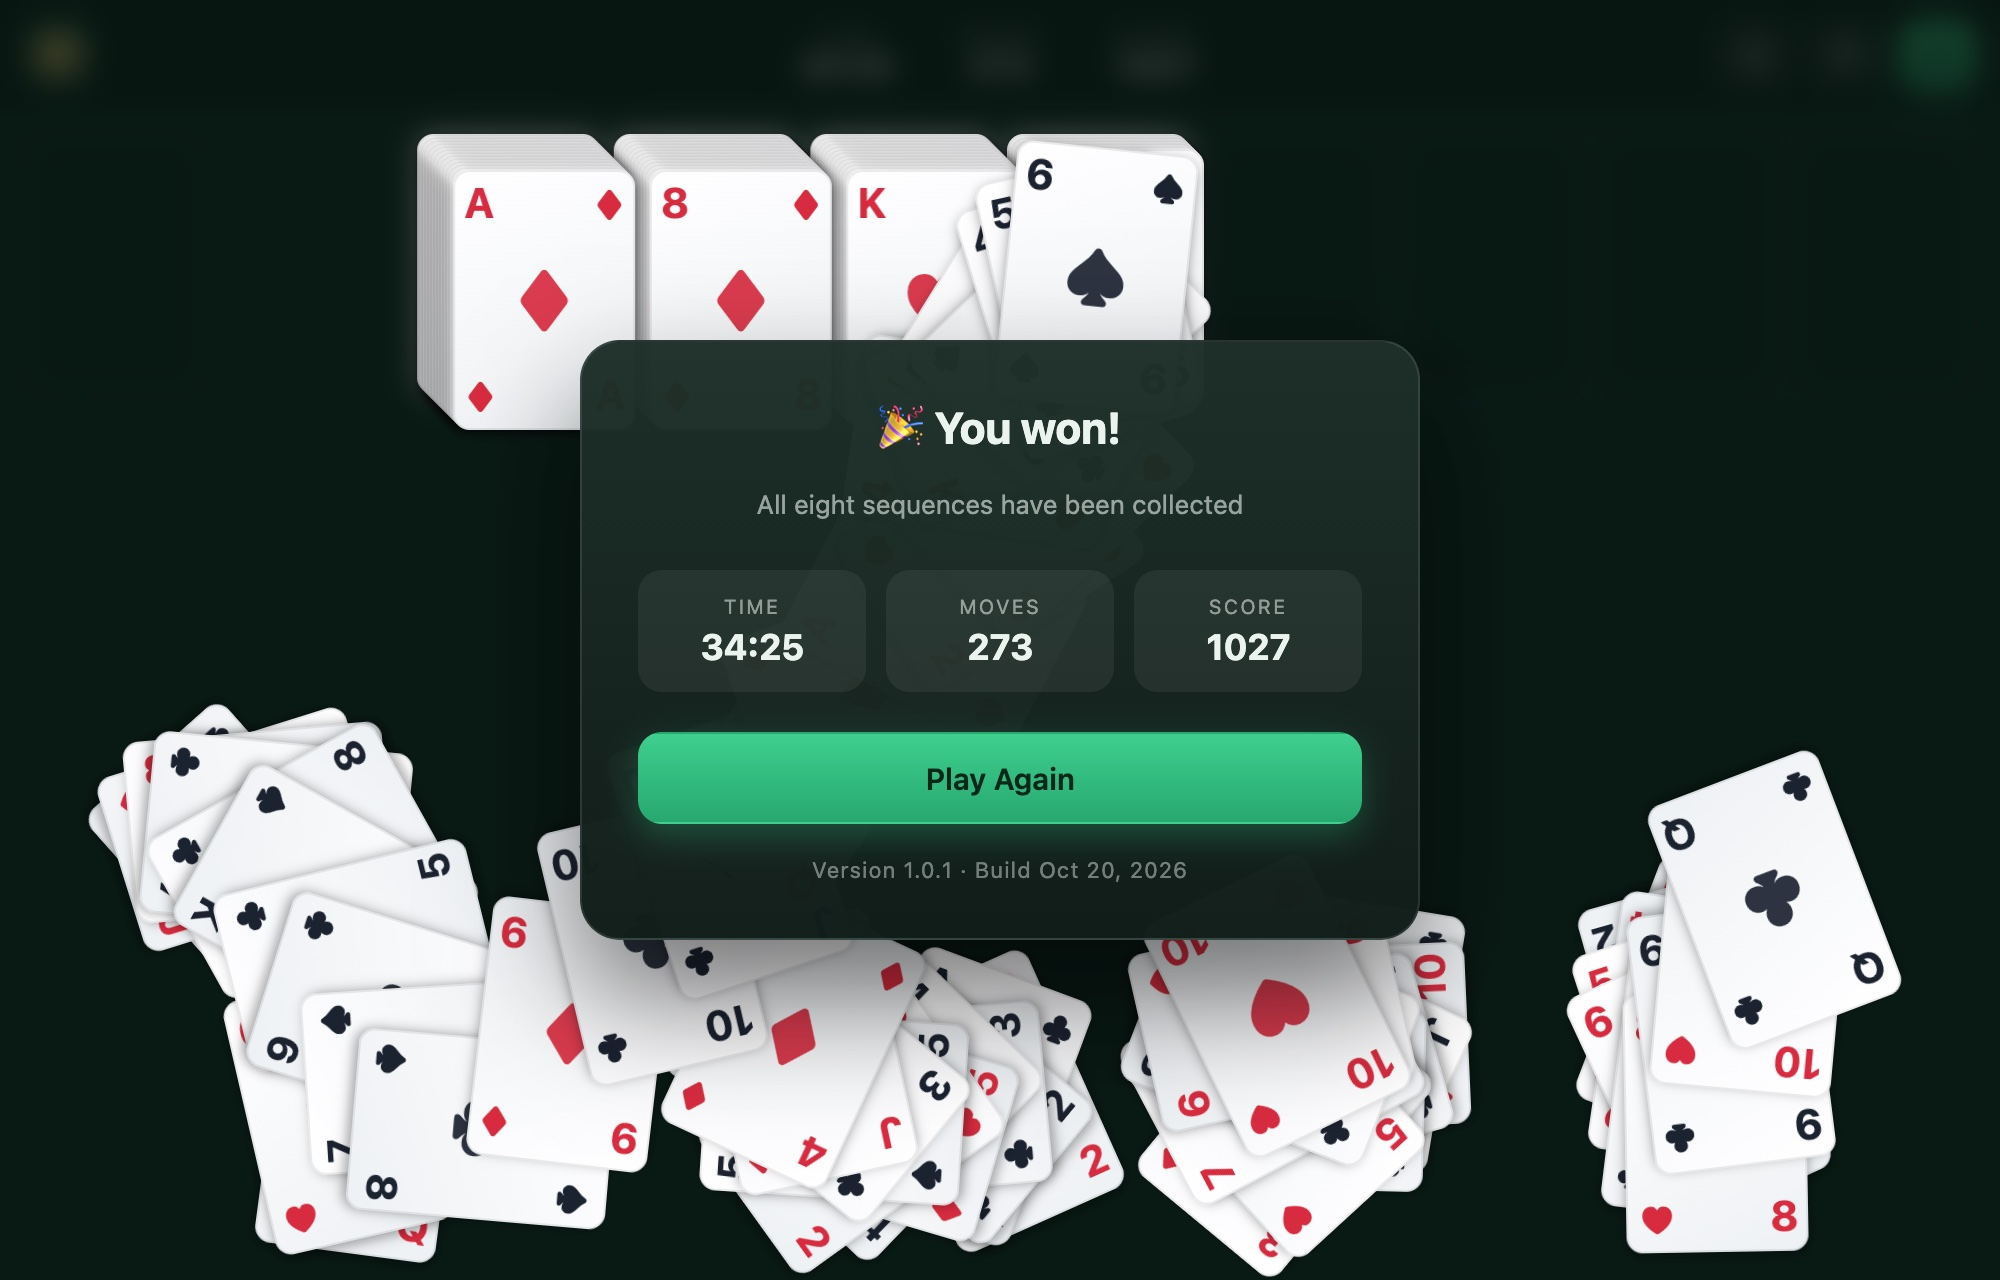
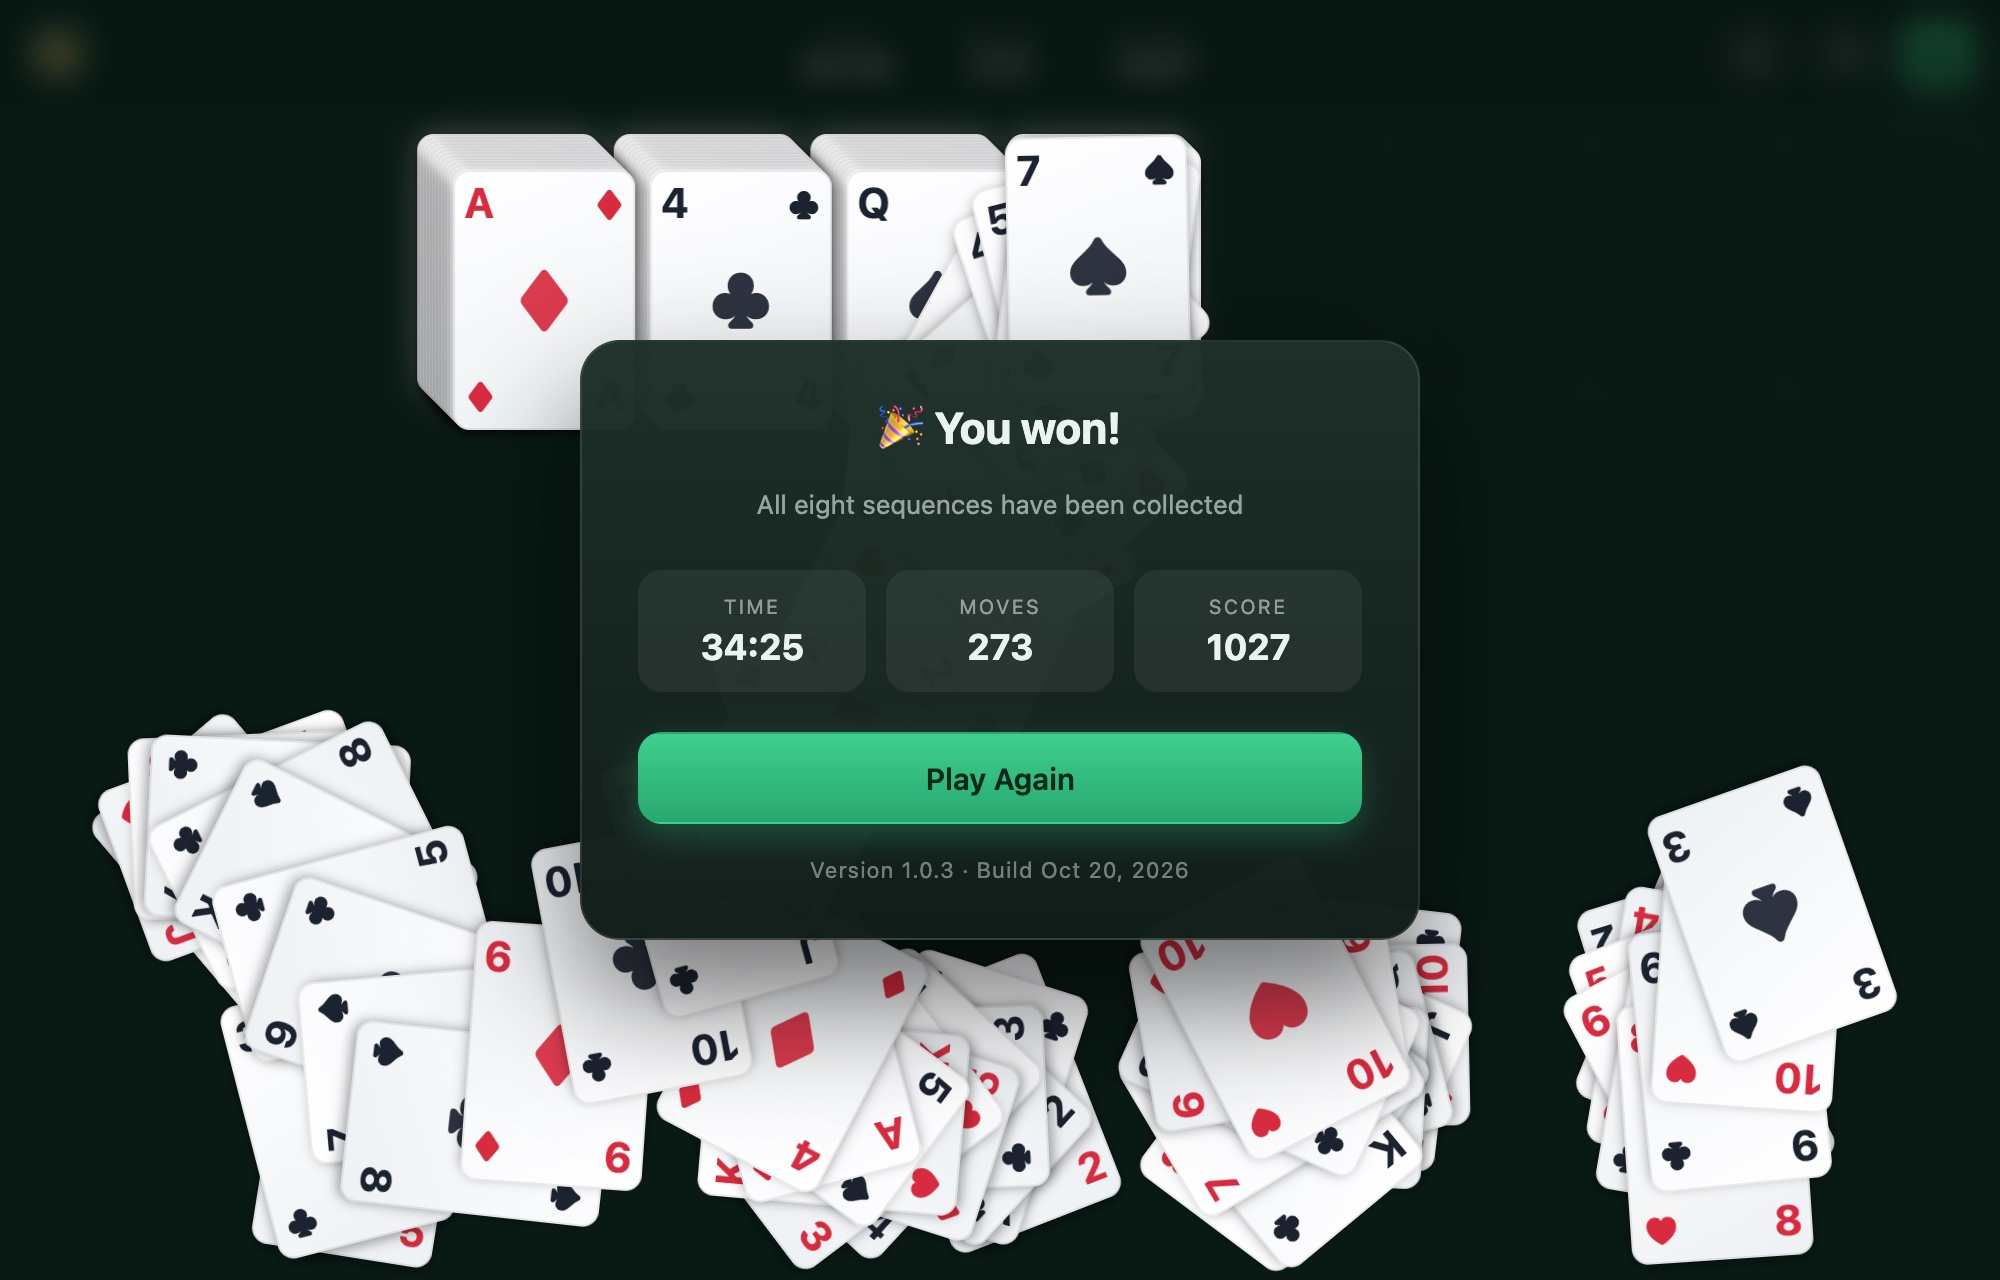
Release 1.0.3: landscape layout fixes, compact dialogs
- measure(): tableau now uses the real available height (tableH floor 40
  instead of 140) and shrinks the cards only when a column would not fit,
  so nothing is clipped in short landscape viewports (915x330: fresh game
  +16 px -> -11 px, 18-card column +29 px -> -11 px); row stays centred
  and the header stays flush with the cards (--gutter)
- Start/info dialogs: overlay is scrollable and the modal is centred when
  it fits; compact layout below 520 px height (smaller logo/paddings,
  difficulty buttons side by side) - the menu was 512 px tall in a 330 px
  viewport, so the difficulty choice and "Start Game" were off-screen
- Version 1.0.3, cache bumped to spider-sunrise-v5
- README screenshots regenerated

diff --git a/script.js b/script.js
@@ -216,35 +216,58 @@
 
     const pad = Math.max(8, Math.min(18, W * 0.012));
     const gap = Math.max(4, W * 0.007);
-    let cardW = (W - pad * 2 - gap * 9) / COLS;
-    cardW = Math.min(cardW, 124);
-    const cardH = cardW * 1.42;
+    let cardW = Math.min((W - pad * 2 - gap * 9) / COLS, 124);
+
+    let cardH = cardW * 1.42;
+    let tableTop = 0;
+    let tableH = 0;
+    let upOff = 0;
+    let downOff = 0;
+
+    for (let pass = 0; pass < 4; pass++) {
+      cardH = cardW * 1.42;
+      tableTop = pad + cardH + Math.max(12, cardH * 0.18, H * 0.035);
+      tableH = Math.max(40, H - tableTop - pad);
+
+      const upMax = cardH * 0.2;
+      const downMax = cardH * 0.09;
+
+      let need = 0;
+      state.columns.forEach((col) => {
+        let t = cardH;
+        for (let i = 0; i < col.length - 1; i++) {
+          t += col[i].faceUp ? upMax : downMax;
+        }
+        need = Math.max(need, t);
+      });
+      const offMax = need - cardH;
+      const offAvail = tableH - cardH;
+      const k = offMax > offAvail && offMax > 0 ? Math.max(0, offAvail / offMax) : 1;
+      upOff = Math.max(2, upMax * k);
+      downOff = Math.max(1.5, downMax * k);
+
+      let actual = 0;
+      state.columns.forEach((col) => {
+        let t = cardH;
+        for (let i = 0; i < col.length - 1; i++) {
+          t += col[i].faceUp ? upOff : downOff;
+        }
+        actual = Math.max(actual, t);
+      });
+      if (actual <= tableH || cardW <= 56) break;
+      cardW = Math.max(56, cardW * Math.min(0.97, tableH / actual));
+    }
+
+    cardH = cardW * 1.42;
+    tableTop = pad + cardH + Math.max(12, cardH * 0.18, H * 0.035);
+    tableH = Math.max(40, H - tableTop - pad);
+
     const tableW = cardW * COLS + gap * (COLS - 1);
     const offsetX = (W - tableW) / 2;
 
     board.style.setProperty("--cw", cardW + "px");
     board.style.setProperty("--ch", cardH + "px");
     document.documentElement.style.setProperty("--gutter", offsetX + "px");
-
-    const tableTop = pad + cardH + Math.max(12, cardH * 0.18, H * 0.035);
-    const tableH = Math.max(140, H - tableTop - pad);
-
-    const upMax = cardH * 0.2;
-    const downMax = cardH * 0.09;
-
-    let need = 0;
-    state.columns.forEach((col) => {
-      let t = cardH;
-      for (let i = 0; i < col.length - 1; i++) {
-        t += col[i].faceUp ? upMax : downMax;
-      }
-      need = Math.max(need, t);
-    });
-    const offMax = need - cardH;
-    const offAvail = tableH - cardH;
-    const k = offMax > offAvail && offMax > 0 ? Math.max(0, offAvail / offMax) : 1;
-    const upOff = Math.max(2, upMax * k);
-    const downOff = Math.max(1.5, downMax * k);
 
     const foundX0 = offsetX + 2 * (cardW + gap);
 

diff --git a/style.css b/style.css
@@ -413,8 +413,10 @@ body.menu-open #board {
   position: fixed;
   inset: 0;
   display: none;
-  align-items: center;
+  align-items: flex-start;
   justify-content: center;
+  overflow-y: auto;
+  overscroll-behavior: contain;
   background: rgba(6, 16, 13, 0.72);
   backdrop-filter: blur(7px);
   -webkit-backdrop-filter: blur(7px);
@@ -428,6 +430,7 @@ body.menu-open #board {
 
 .modal {
   width: min(420px, 100%);
+  margin: auto;
   background: linear-gradient(180deg, rgba(30, 48, 41, 0.98), rgba(17, 29, 25, 0.99));
   border: 1px solid rgba(255, 255, 255, 0.1);
   border-radius: 20px;
@@ -642,5 +645,80 @@ body.menu-open #board {
   .stats {
     position: static;
     transform: none;
+  }
+}
+
+@media (max-height: 520px) {
+  .overlay {
+    padding: 10px;
+  }
+
+  .modal {
+    padding: 16px;
+    border-radius: 14px;
+  }
+
+  .modal-logo {
+    width: 44px;
+    height: 44px;
+    margin-bottom: 10px;
+  }
+
+  .modal h2 {
+    font-size: 17px;
+    margin-bottom: 8px;
+  }
+
+  .modal .sub {
+    font-size: 11.5px;
+    line-height: 1.4;
+    margin-bottom: 12px;
+  }
+
+  .modal .about {
+    font-size: 12px;
+    line-height: 1.45;
+    margin-bottom: 12px;
+  }
+
+  .difficulty {
+    grid-auto-flow: column;
+    grid-auto-columns: 1fr;
+    gap: 6px;
+    margin-bottom: 12px;
+  }
+
+  .diff {
+    flex-direction: column;
+    gap: 3px;
+    padding: 8px 6px;
+  }
+
+  .diff .suits {
+    font-size: 15px;
+    gap: 3px;
+  }
+
+  .diff > span {
+    font-size: 10px;
+  }
+
+  .btn.big {
+    padding: 9px 16px;
+    font-size: 13.5px;
+  }
+
+  .app-version {
+    margin-top: 8px;
+    font-size: 10px;
+  }
+
+  .result {
+    gap: 6px;
+    margin-bottom: 12px;
+  }
+
+  .result > div {
+    padding: 8px;
   }
 }

diff --git a/sw.js b/sw.js
@@ -1,4 +1,4 @@
-const CACHE = "spider-sunrise-v4";
+const CACHE = "spider-sunrise-v5";
 
 const ASSETS = [
   "./",

diff --git a/version.js b/version.js
@@ -1,4 +1,4 @@
 window.APP_INFO = {
-  version: "1.0.2",
+  version: "1.0.3",
   build: "2026-10-20",
 };
